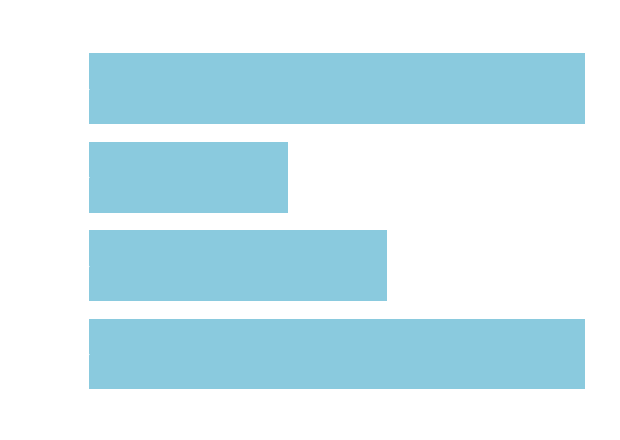
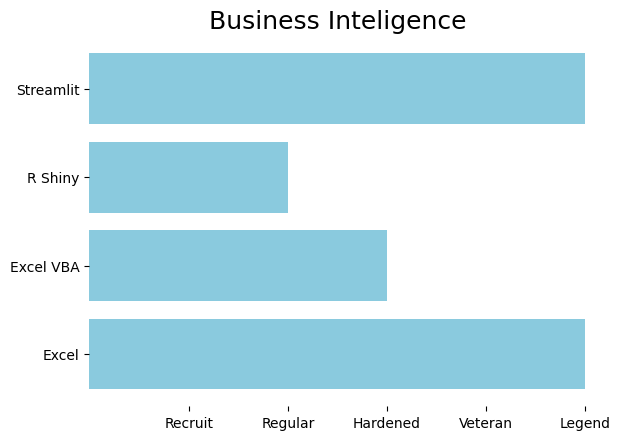
Black text in charts

diff --git a/src/_generate_charts.py b/src/_generate_charts.py
@@ -6,7 +6,7 @@ import settings as setts
 from matplotlib import rcParams
 
 # Figure text color specs
-COLOR = 'white'
+COLOR = 'black'
 rcParams['text.color'] = COLOR
 rcParams['axes.labelcolor'] = COLOR
 rcParams['xtick.color'] = COLOR
